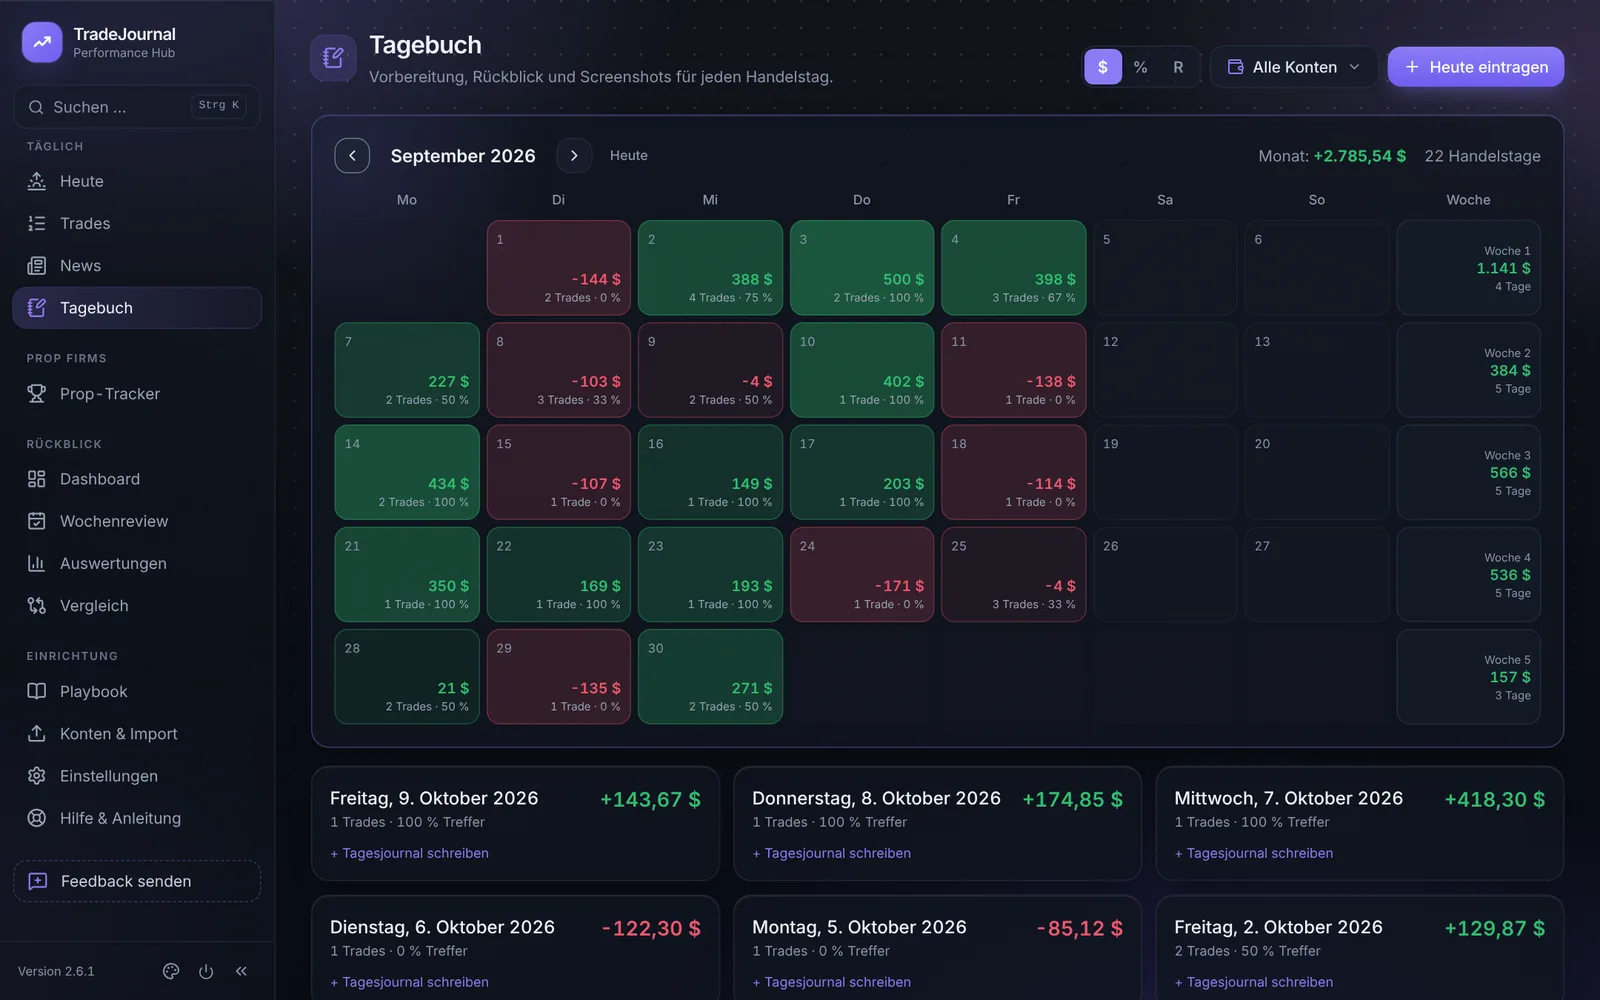
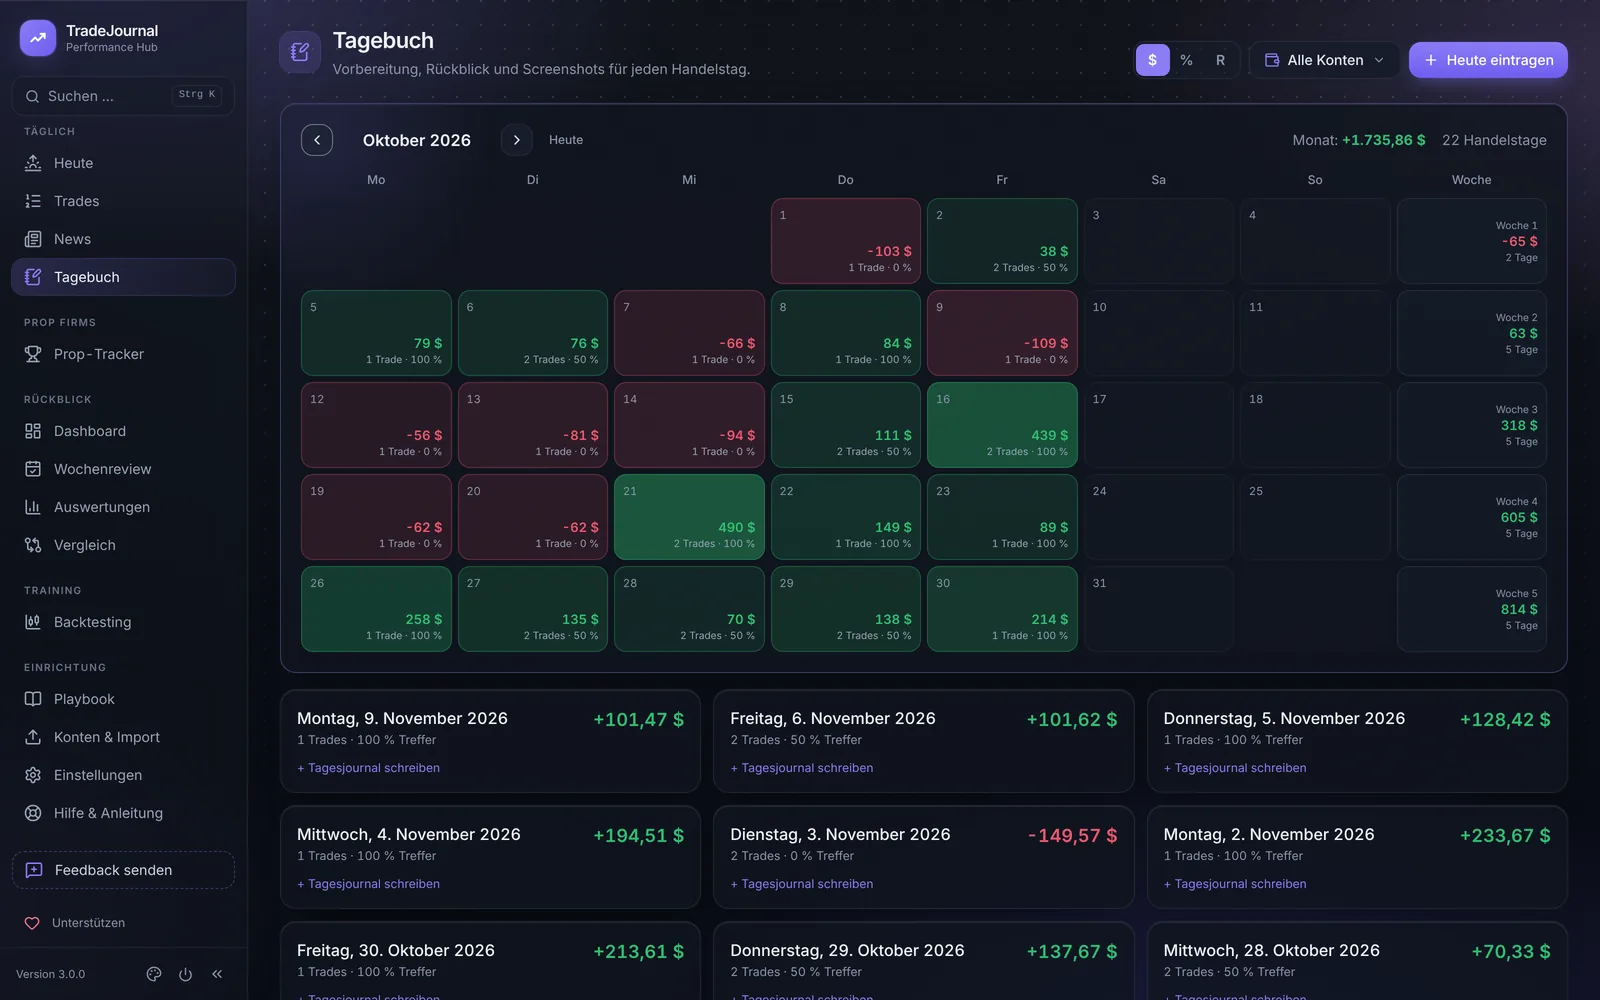
Download-Seite 3.0: neue Bilder, Kursdaten-Abschnitt, Backtesting in den Funktionen
Claude-Session: https://claude.ai/code/session_01P4mfED2TNex1LrnYMaSEZ4

diff --git a/docs/index.html b/docs/index.html
@@ -111,21 +111,21 @@ footer p { margin: 0; max-width: 70ch; }
       <a class="btn" href="#funktionen">Funktionen ansehen</a>
     </div>
     <div class="meta"><span>Für Windows 10 und 11</span><span>Keine Anmeldung</span><span>Daten bleiben auf deinem PC</span><span>Automatische Updates</span></div>
-    <div class="shot"><img src="img/dashboard.webp" width="1600" height="1000" alt="Dashboard von TradeJournal mit Netto-Gewinn, Trefferquote, Performance-Score und kumulierter Kurve (Beispieldaten)"></div>
+    <div class="shot"><img src="img/dashboard.webp?v=3.0" width="1600" height="1000" alt="Dashboard von TradeJournal mit Netto-Gewinn, Trefferquote, Performance-Score und kumulierter Kurve (Beispieldaten)"></div>
   </div>
 </header>
 
 <section id="funktionen">
   <div class="wrap">
     <h2>Alles, was ein Trading-Journal braucht</h2>
-    <p class="sub">Vom automatischen Import bis zur Wochenauswertung. Gebaut von einem Trader für Trader, die ihre Prop-Firm-Challenges ernst nehmen.</p>
+    <p class="sub">Vom automatischen Import über das Backtesting bis zur Wochenauswertung. Gebaut von einem Trader für Trader, die ihre Prop-Firm-Challenges ernst nehmen.</p>
     <div class="grid">
       <div class="feat"><div class="ic"><svg width="20" height="20" viewBox="0 0 24 24" fill="none" stroke="currentColor" stroke-width="2" stroke-linecap="round" stroke-linejoin="round"><path d="M4 4v6h6M20 20v-6h-6"/><path d="M20 10A8 8 0 0 0 6 5.3L4 7.5M4 14a8 8 0 0 0 14 4.7l2-2.2"/></svg></div><h3>Automatischer MT5-Import</h3><p>Der MT5-Dienst überträgt geschlossene Trades in Sekunden ins Journal. Alternativ reicht der normale MT5-Bericht.</p></div>
       <div class="feat"><div class="ic"><svg width="20" height="20" viewBox="0 0 24 24" fill="none" stroke="currentColor" stroke-width="2" stroke-linecap="round" stroke-linejoin="round"><path d="M8 21h8M12 17v4M7 4h10v5a5 5 0 0 1-10 0z"/><path d="M17 5h3v2a3 3 0 0 1-3 3M7 5H4v2a3 3 0 0 0 3 3"/></svg></div><h3>Prop-Firm-Tracker</h3><p>Gewinnziel, Drawdown-Puffer, Phasen und die echten Kosten aller Challenges auf einen Blick.</p></div>
       <div class="feat"><div class="ic"><svg width="20" height="20" viewBox="0 0 24 24" fill="none" stroke="currentColor" stroke-width="2" stroke-linecap="round"><path d="M4 20V10M10 20V4M16 20v-8M22 20H2"/></svg></div><h3>Auswertungen</h3><p>Nach Wochentag, Uhrzeit, Symbol, Setup, Tag und Emotion. Umschaltbar zwischen Dollar, Prozent und R.</p></div>
       <div class="feat"><div class="ic"><svg width="20" height="20" viewBox="0 0 24 24" fill="none" stroke="currentColor" stroke-width="2" stroke-linecap="round" stroke-linejoin="round"><rect x="3" y="4" width="18" height="17" rx="2"/><path d="M3 9h18M8 2v4M16 2v4"/></svg></div><h3>Tagebuch und Kalender</h3><p>Jeder Handelstag im Kalender, mit Vorbereitung, Rückblick, Screenshots und Wochenreview.</p></div>
       <div class="feat"><div class="ic"><svg width="20" height="20" viewBox="0 0 24 24" fill="none" stroke="currentColor" stroke-width="2" stroke-linecap="round" stroke-linejoin="round"><path d="M9 11l3 3 8-8"/><path d="M20 12v7a2 2 0 0 1-2 2H5a2 2 0 0 1-2-2V5a2 2 0 0 1 2-2h11"/></svg></div><h3>Playbook und Regeln</h3><p>Setups mit Checklisten, Regel-Check pro Trade und ein Trade-Limit, das vor Overtrading warnt.</p></div>
-      <div class="feat"><div class="ic"><svg width="20" height="20" viewBox="0 0 24 24" fill="none" stroke="currentColor" stroke-width="2" stroke-linecap="round" stroke-linejoin="round"><path d="M3 12h4l3-8 4 16 3-8h4"/></svg></div><h3>Vergleich</h3><p>Zwei Zeiträume nebeneinander, mit allen Kennzahlen und beiden Kurven übereinander.</p></div>
+      <div class="feat"><div class="ic"><svg width="20" height="20" viewBox="0 0 24 24" fill="none" stroke="currentColor" stroke-width="2" stroke-linecap="round" stroke-linejoin="round"><path d="M5 3v18M5 7h3v6H5M12 5v14M12 9h3v5h-3M19 4v16M19 6h-3v8h3"/></svg></div><h3>Backtesting <span style="font-size:11px;color:var(--accent,#8b7cff);font-weight:600">neu</span></h3><p>Den Markt Kerze für Kerze im Replay abspielen und traden – mit eigener Auswertung, getrennt von deinen Live-Konten.</p></div>
     </div>
   </div>
 </section>
@@ -144,12 +144,29 @@ footer p { margin: 0; max-width: 70ch; }
         <li><b>Kursdaten</b> von Dukascopy laden oder als CSV aus MetaTrader 5 importieren</li>
       </ul>
     </div>
-    <img src="img/backtest.webp" width="1600" height="1000" loading="lazy" alt="Backtesting im Replay mit Long-Planung, runden Levels und Session-Linien (Beispieldaten)">
+    <img src="img/backtest.webp?v=3.0" width="1600" height="1000" loading="lazy" alt="Backtesting im Replay mit Long-Planung, runden Levels und Session-Linien (Beispieldaten)">
+  </div>
+</section>
+
+<section style="padding-top:24px">
+  <div class="wrap split rev">
+    <div class="txt">
+      <span class="badge">Kursdaten</span>
+      <h2>Deine Kerzen, direkt aus der App</h2>
+      <p class="sub" style="margin-bottom:20px">Weil das Journal komplett auf deinem PC läuft, lädst du dir die 1-Minuten-Kerzen für das Backtesting selbst – das geht in wenigen Klicks.</p>
+      <ul class="check">
+        <li><b>Markt und Zeitraum wählen</b>, „Laden starten“ – die Kerzen kommen kostenlos von Dukascopy</li>
+        <li><b>Vorschau</b> zeigt vorher, wie viele Kerzen und wie viel Speicherplatz dazukommen</li>
+        <li><b>Eigene Kurse:</b> CSV aus MetaTrader 5 einfach hineinziehen</li>
+        <li><b>Danach offline:</b> einmal geladen, läuft das Backtesting ohne Internet</li>
+      </ul>
+    </div>
+    <img src="img/kursdaten.webp?v=3.0" width="1600" height="1000" loading="lazy" alt="Fenster „Kursdaten fürs Backtesting“ mit Marktauswahl, Zeitraum und Vorschau (Beispieldaten)">
   </div>
 </section>
 
 <section id="prop" style="padding-top:24px">
-  <div class="wrap split rev">
+  <div class="wrap split">
     <div class="txt">
       <span class="badge">Prop-Firms</span>
       <h2>Behalte jede Challenge im Griff</h2>
@@ -161,12 +178,12 @@ footer p { margin: 0; max-width: 70ch; }
         <li><b>News-Warnungen</b> für Zeiten mit hoher Volatilität</li>
       </ul>
     </div>
-    <img src="img/prop.webp" width="1600" height="1000" loading="lazy" alt="Prop-Tracker mit Fortschritt zum Gewinnziel und Drawdown-Puffer (Beispieldaten)">
+    <img src="img/prop.webp?v=3.0" width="1600" height="1000" loading="lazy" alt="Prop-Tracker mit Fortschritt zum Gewinnziel und Drawdown-Puffer (Beispieldaten)">
   </div>
 </section>
 
 <section style="padding-top:24px">
-  <div class="wrap split">
+  <div class="wrap split rev">
     <div class="txt">
       <span class="badge">Tagebuch</span>
       <h2>Jeder Handelstag auf einen Blick</h2>
@@ -177,7 +194,7 @@ footer p { margin: 0; max-width: 70ch; }
         <li><b>Wochenreview</b> mit deinen eigenen Fragen</li>
       </ul>
     </div>
-    <img src="img/journal.webp" width="1600" height="1000" loading="lazy" alt="Kalender im Tagebuch mit Tagesergebnissen und Wochensummen (Beispieldaten)">
+    <img src="img/journal.webp?v=3.0" width="1600" height="1000" loading="lazy" alt="Kalender im Tagebuch mit Tagesergebnissen und Wochensummen (Beispieldaten)">
   </div>
 </section>
 
